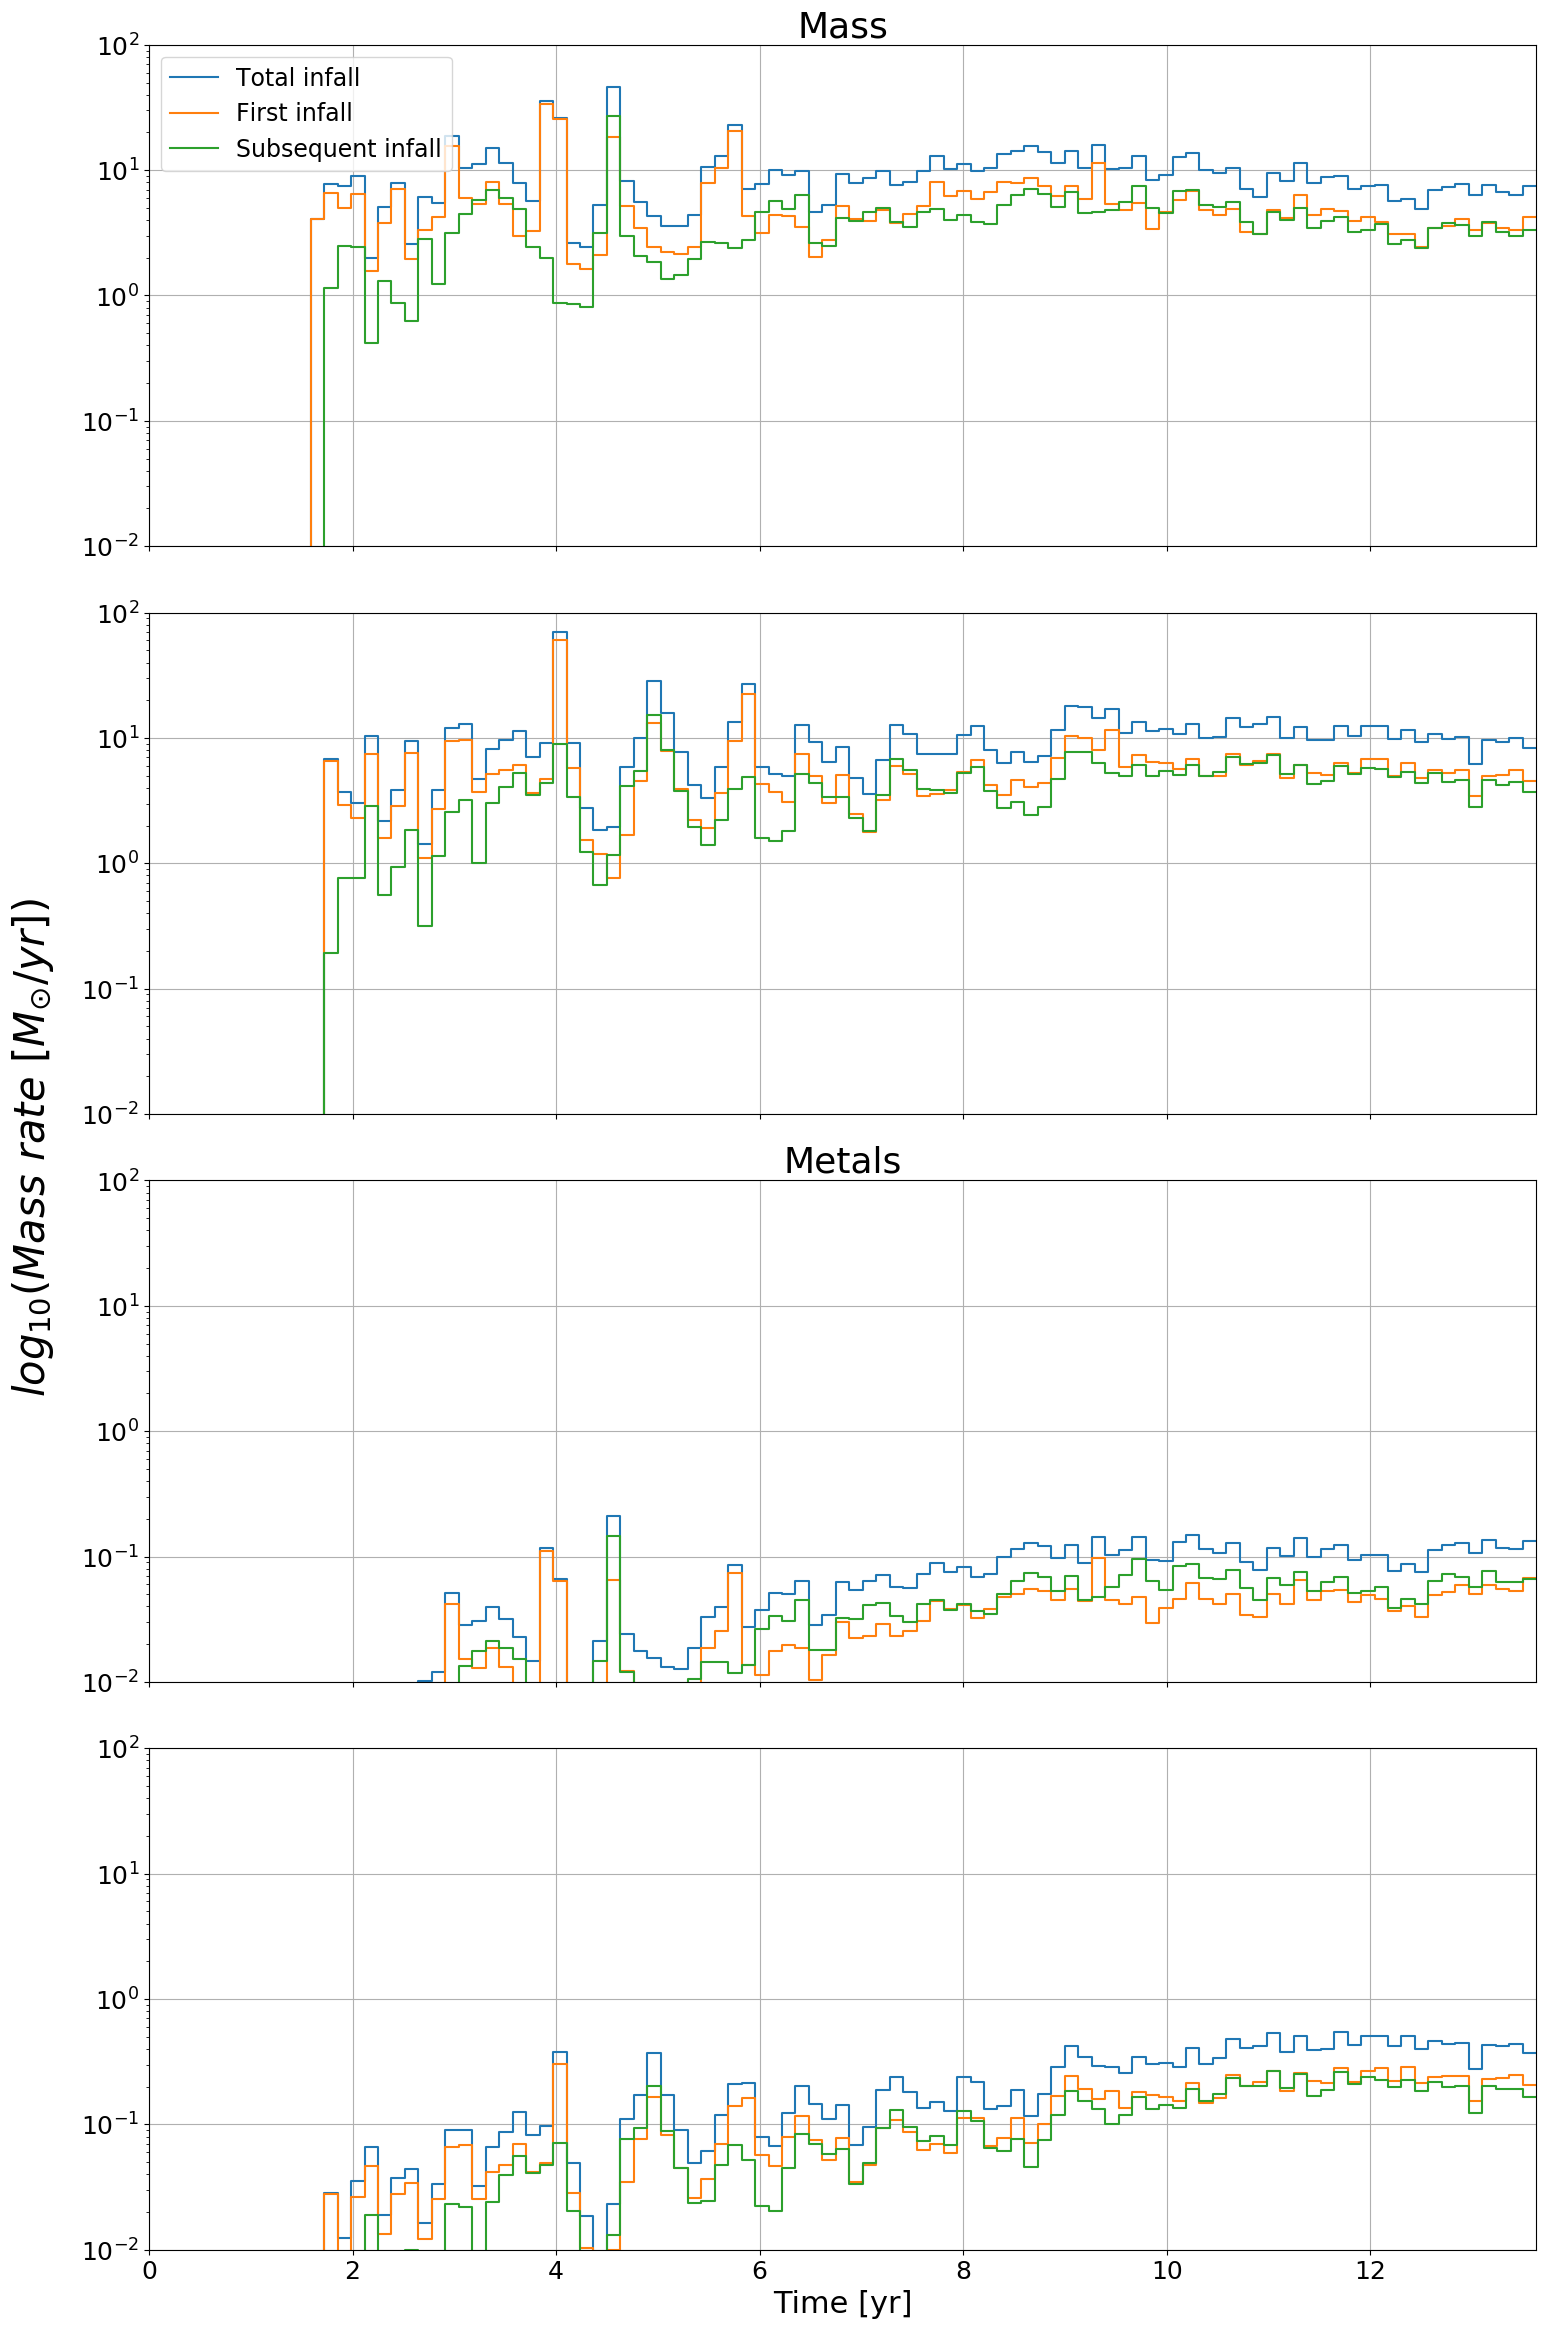
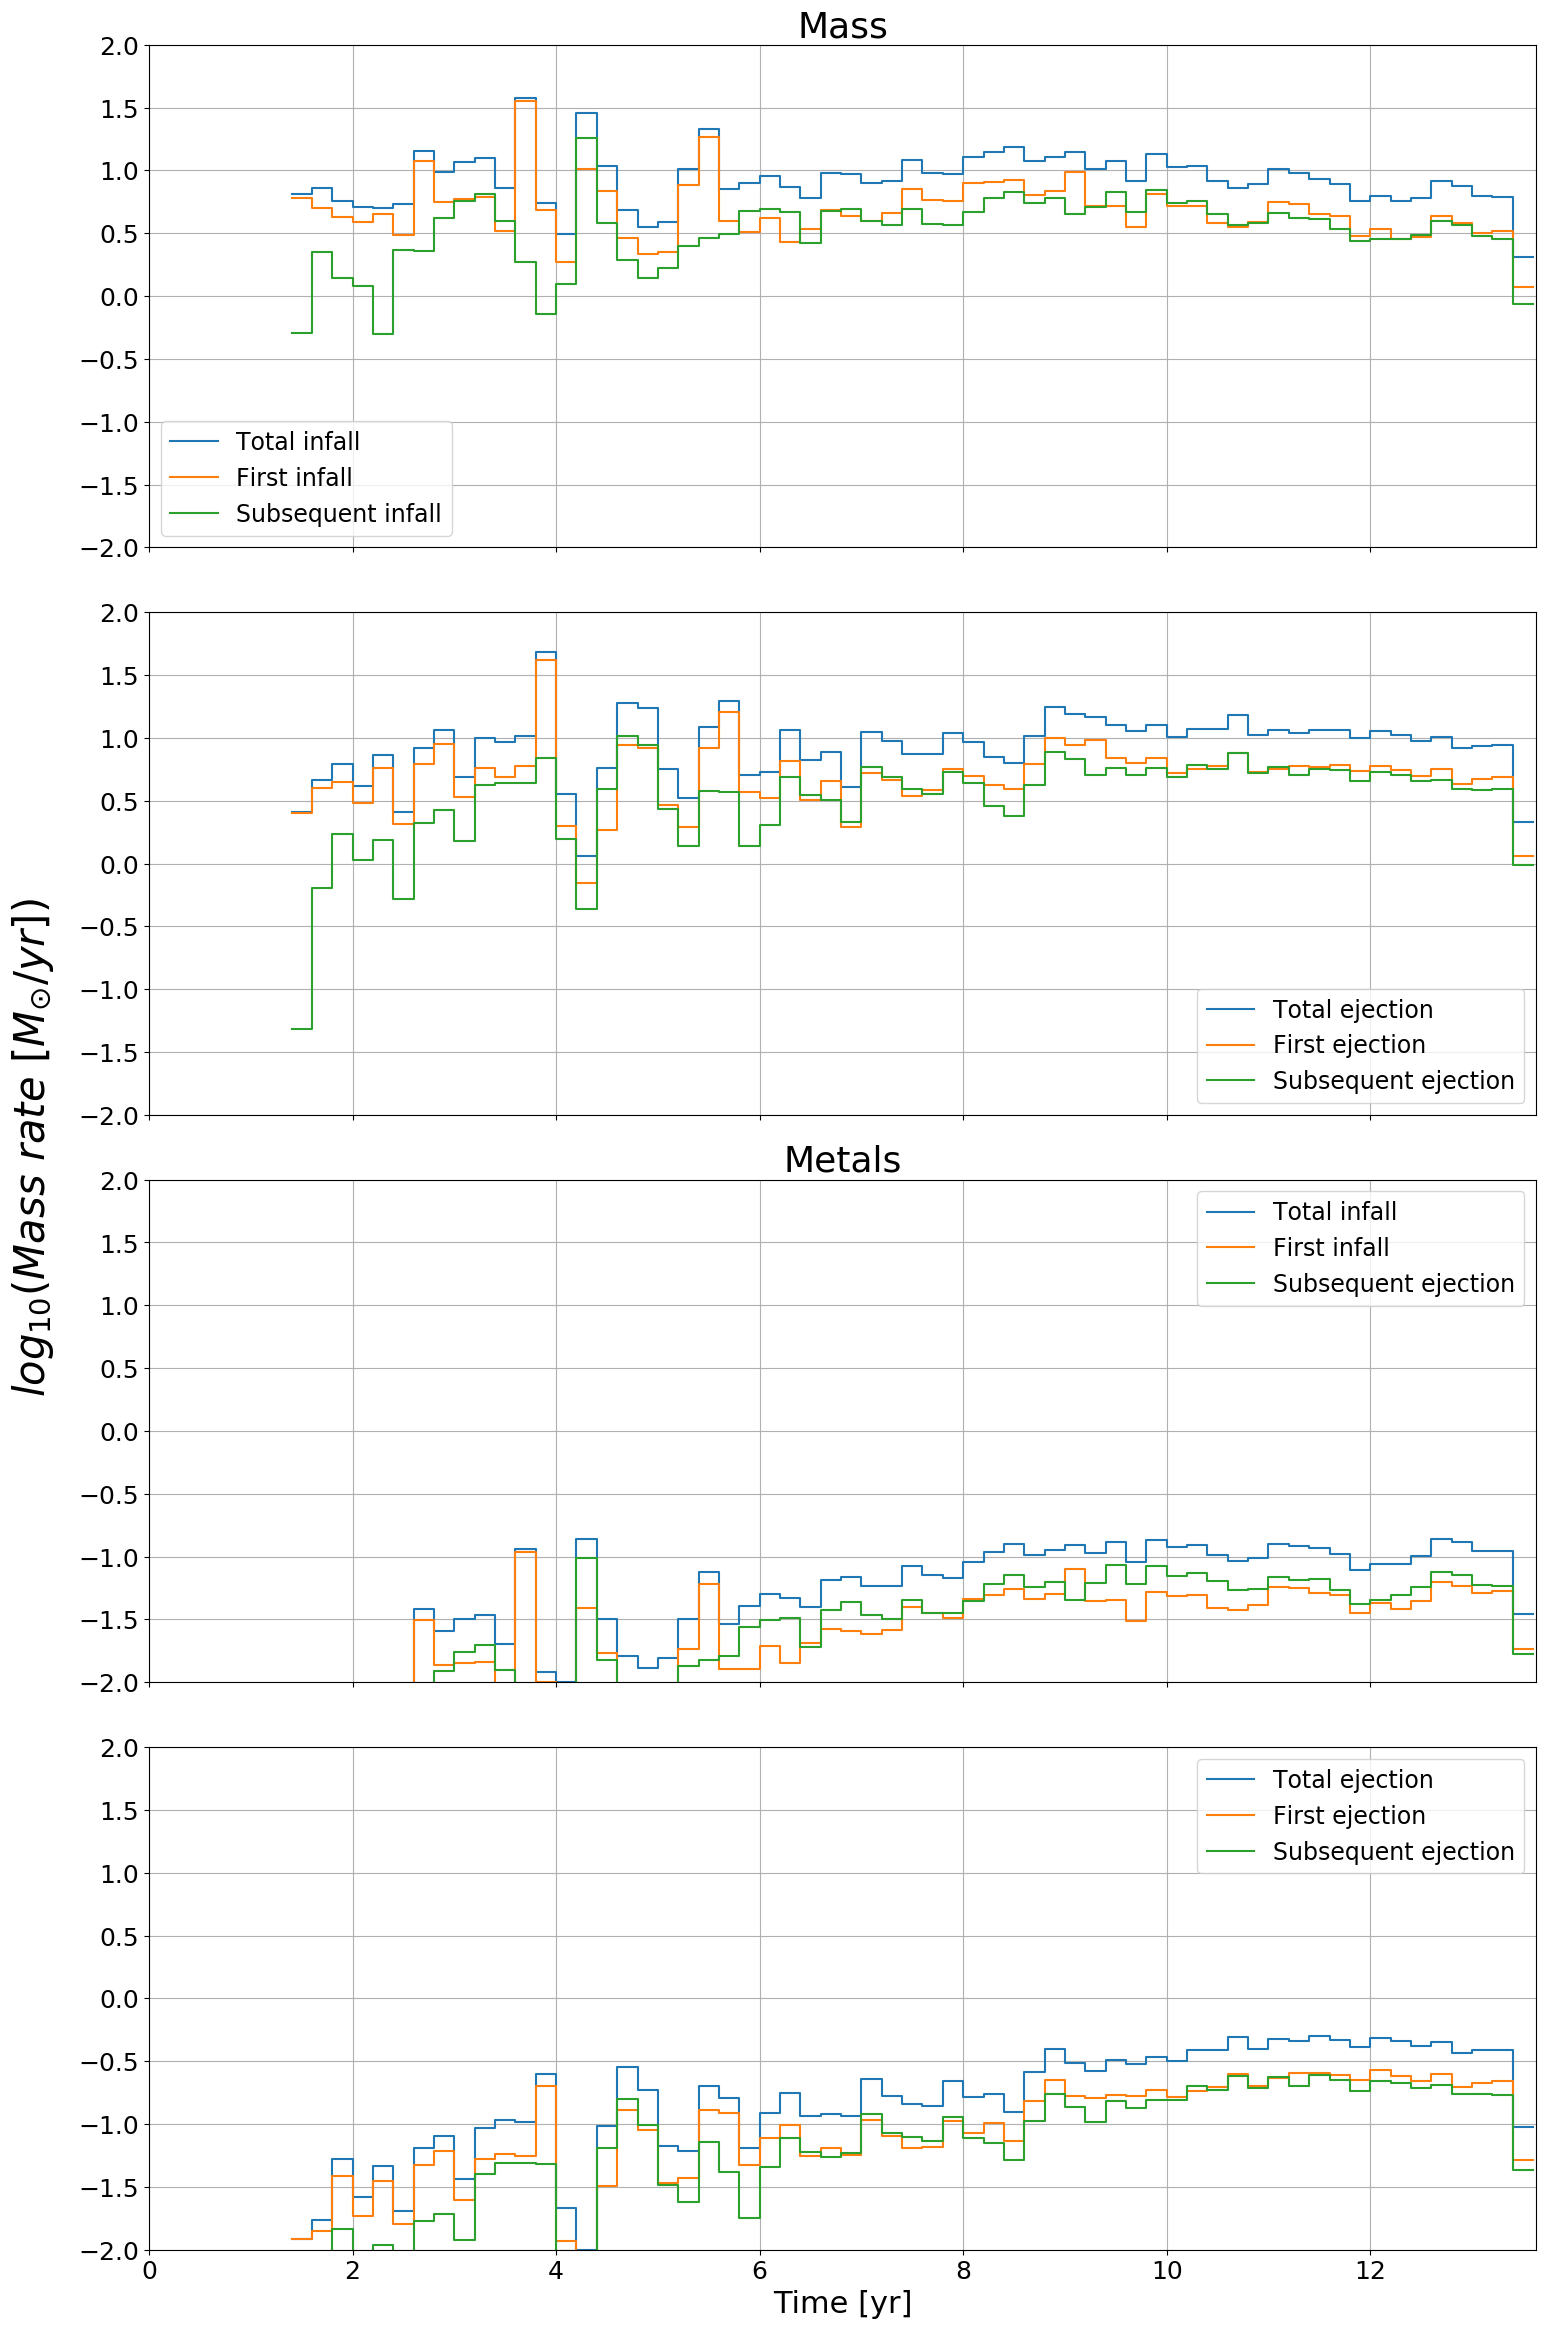
in_out_over_time correct ylabels

diff --git a/1/in_out_over_time.py b/1/in_out_over_time.py
@@ -15,8 +15,8 @@ def plot(args):
     path = '/ptmp/mpa/naab/REFINED/%s/SF_X/4x-2phase/out/snap_%s_4x_???' % (halo, halo)
     max = int(sorted(glob.glob(path))[-1][-3:])
     s, h, g = pg.prepare_zoom('/ptmp/mpa/naab/REFINED/%s/SF_X/4x-2phase/out/snap_%s_4x_%s' % (halo, halo, max), gas_trace='/u/mihac/data/%s/4x-2phase/gastrace_%s' % (halo, definition), star_form=None)
+    bins = np.arange(0, s.cosmic_time() + .2, .2)
 
-    timerange = np.linspace(0, s.cosmic_time(), 13 * 8)
     rec = s.gas[s.gas['num_recycled'] > -1]
     metals_infall = rec['metals_at_infall']
     metals_infall_initial = metals_infall[:, 0]
@@ -39,73 +39,62 @@ def plot(args):
     ejection_time_initial = ejection_time[:, 0]
     ejection_time_reac = ejection_time[:, 1:]
 
-    metals_infall, edges, count = stats.binned_statistic(np.concatenate(infall_time), np.concatenate(metals_infall), statistic='sum', bins=timerange)
-    metals_ejection, edges, count = stats.binned_statistic(np.concatenate(ejection_time), np.concatenate(metals_ejection), statistic='sum', bins=timerange)
-    metals_infall_initial, edges_init, count = stats.binned_statistic(infall_time_initial, metals_infall_initial, statistic='sum', bins=timerange)
-    metals_ejection_initial, edges_init, count = stats.binned_statistic(ejection_time_initial, metals_ejection_initial, statistic='sum', bins=timerange)
-    metals_infall_reac, edges_reac, count = stats.binned_statistic(np.concatenate(infall_time_reac), np.concatenate(metals_infall_reac), statistic='sum', bins=timerange)
-    metals_ejection_reac, edges_reac, count = stats.binned_statistic(np.concatenate(ejection_time_reac), np.concatenate(metals_ejection_reac), statistic='sum', bins=timerange)
-    mass_infall, edges, count = stats.binned_statistic(np.concatenate(infall_time), np.concatenate(mass_infall), statistic='sum', bins=timerange)
-    mass_ejection, edges, count = stats.binned_statistic(np.concatenate(ejection_time), np.concatenate(mass_ejection), statistic='sum', bins=timerange)
-    mass_infall_initial, edges_init, count = stats.binned_statistic(infall_time_initial, mass_infall_initial, statistic='sum', bins=timerange)
-    mass_ejection_initial, edges_init, count = stats.binned_statistic(ejection_time_initial, mass_ejection_initial, statistic='sum', bins=timerange)
-    mass_infall_reac, edges_reac, count = stats.binned_statistic(np.concatenate(infall_time_reac), np.concatenate(mass_infall_reac), statistic='sum', bins=timerange)
-    mass_ejection_reac, edges_reac, count = stats.binned_statistic(np.concatenate(ejection_time_reac), np.concatenate(mass_ejection_reac), statistic='sum', bins=timerange)
+    metals_infall, _, _ = stats.binned_statistic(np.concatenate(infall_time), np.concatenate(metals_infall), statistic='sum', bins=bins)
+    metals_ejection, _, _ = stats.binned_statistic(np.concatenate(ejection_time), np.concatenate(metals_ejection), statistic='sum', bins=bins)
+    metals_infall_initial, _, _ = stats.binned_statistic(infall_time_initial, metals_infall_initial, statistic='sum', bins=bins)
+    metals_ejection_initial, _, _ = stats.binned_statistic(ejection_time_initial, metals_ejection_initial, statistic='sum', bins=bins)
+    metals_infall_reac, _, _ = stats.binned_statistic(np.concatenate(infall_time_reac), np.concatenate(metals_infall_reac), statistic='sum', bins=bins)
+    metals_ejection_reac, _, _ = stats.binned_statistic(np.concatenate(ejection_time_reac), np.concatenate(metals_ejection_reac), statistic='sum', bins=bins)
+    mass_infall, _, _ = stats.binned_statistic(np.concatenate(infall_time), np.concatenate(mass_infall), statistic='sum', bins=bins)
+    mass_ejection, _, _ = stats.binned_statistic(np.concatenate(ejection_time), np.concatenate(mass_ejection), statistic='sum', bins=bins)
+    mass_infall_initial, _, _ = stats.binned_statistic(infall_time_initial, mass_infall_initial, statistic='sum', bins=bins)
+    mass_ejection_initial, _, _ = stats.binned_statistic(ejection_time_initial, mass_ejection_initial, statistic='sum', bins=bins)
+    mass_infall_reac, _, _ = stats.binned_statistic(np.concatenate(infall_time_reac), np.concatenate(mass_infall_reac), statistic='sum', bins=bins)
+    mass_ejection_reac, _, _ = stats.binned_statistic(np.concatenate(ejection_time_reac), np.concatenate(mass_ejection_reac), statistic='sum', bins=bins)
 
-    dt = timerange[1]*1e9
+    dt = bins[1] * 1e9
 
-    metals_infall /=  dt
-    metals_ejection /= dt
-    metals_infall_initial /= dt
-    metals_ejection_initial /= dt
-    metals_infall_reac /= dt
-    metals_ejection_reac /= dt
-    mass_infall /= dt
-    mass_ejection /= dt
-    mass_infall_initial /= dt
-    mass_ejection_initial /= dt
-    mass_infall_reac /= dt
-    mass_ejection_reac /= dt
-
-    metals_infall = utils.prepare_step(metals_infall)
-    metals_ejection = utils.prepare_step(metals_ejection)
-    metals_infall_initial = utils.prepare_step(metals_infall_initial)
-    metals_ejection_initial = utils.prepare_step(metals_ejection_initial)
-    metals_infall_reac = utils.prepare_step(metals_infall_reac)
-    metals_ejection_reac = utils.prepare_step(metals_ejection_reac)
-    mass_infall = utils.prepare_step(mass_infall)
-    mass_ejection = utils.prepare_step(mass_ejection)
-    mass_infall_initial = utils.prepare_step(mass_infall_initial)
-    mass_ejection_initial = utils.prepare_step(mass_ejection_initial)
-    mass_infall_reac = utils.prepare_step(mass_infall_reac)
-    mass_ejection_reac = utils.prepare_step(mass_ejection_reac)
+    metals_infall = np.log10(metals_infall / dt)
+    metals_ejection = np.log10(metals_ejection / dt)
+    metals_infall_initial = np.log10(metals_infall_initial / dt)
+    metals_ejection_initial = np.log10(metals_ejection_initial / dt)
+    metals_infall_reac = np.log10(metals_infall_reac / dt)
+    metals_ejection_reac = np.log10(metals_ejection_reac / dt)
+    mass_infall = np.log10(mass_infall / dt)
+    mass_ejection = np.log10(mass_ejection / dt)
+    mass_infall_initial = np.log10(mass_infall_initial / dt)
+    mass_ejection_initial = np.log10(mass_ejection_initial / dt)
+    mass_infall_reac = np.log10(mass_infall_reac / dt)
+    mass_ejection_reac = np.log10(mass_ejection_reac / dt)
 
     f, (ax1, ax2, ax3, ax4) = plt.subplots(4, figsize=utils.figsize * 2)
     axes = (ax1, ax2, ax3, ax4)
     for ax in axes:
         ax.set_xlim((0, s.cosmic_time()))
-        ax.set_yscale('log')
-        ax.set_ylim((1e-2, 1e2))
+        ax.set_ylim((-2, 2))
     ax4.set_xlabel("Time [yr]")
     for ax in axes[:-1]:
         ax.tick_params(labelbottom='off')
 
     ax1.set_title("Mass")
-    ax1.step(edges, mass_infall, label='Total infall')
-    ax1.step(edges_init, mass_infall_initial, label='First infall')
-    ax1.step(edges_reac, mass_infall_reac, label='Subsequent infall')
-    lgd1 = ax1.legend(loc='upper left', fontsize=17)
-    ax2.step(edges, mass_ejection, label='Total ejection')
-    ax2.step(edges_init, mass_ejection_initial, label='First ejection')
-    ax2.step(edges_reac, mass_ejection_reac, label='Subsequent ejection')
+    ax1.step(bins[:-1], mass_infall, label='Total infall')
+    ax1.step(bins[:-1], mass_infall_initial, label='First infall')
+    ax1.step(bins[:-1], mass_infall_reac, label='Subsequent infall')
+    lgd1 = ax1.legend(loc='best', fontsize=17)
+    ax2.step(bins[:-1], mass_ejection, label='Total ejection')
+    ax2.step(bins[:-1], mass_ejection_initial, label='First ejection')
+    ax2.step(bins[:-1], mass_ejection_reac, label='Subsequent ejection')
+    lgd2 = ax2.legend(loc='best', fontsize=17)
 
     ax3.set_title("Metals")
-    ax3.step(edges, metals_infall, label='Total infall')
-    ax3.step(edges_init, metals_infall_initial, label='First infall')
-    ax3.step(edges_reac, metals_infall_reac, label='Subsequent ejection')
-    ax4.step(edges, metals_ejection, label='Total ejection')
-    ax4.step(edges_init, metals_ejection_initial, label='First ejection')
-    ax4.step(edges_reac, metals_ejection_reac, label='Subsequent ejection')
+    ax3.step(bins[:-1], metals_infall, label='Total infall')
+    ax3.step(bins[:-1], metals_infall_initial, label='First infall')
+    ax3.step(bins[:-1], metals_infall_reac, label='Subsequent ejection')
+    lgd3 = ax3.legend(loc='best', fontsize=17)
+    ax4.step(bins[:-1], metals_ejection, label='Total ejection')
+    ax4.step(bins[:-1], metals_ejection_initial, label='First ejection')
+    ax4.step(bins[:-1], metals_ejection_reac, label='Subsequent ejection')
+    lgd4 = ax4.legend(loc='best', fontsize=17)
 
     f.tight_layout()
 
